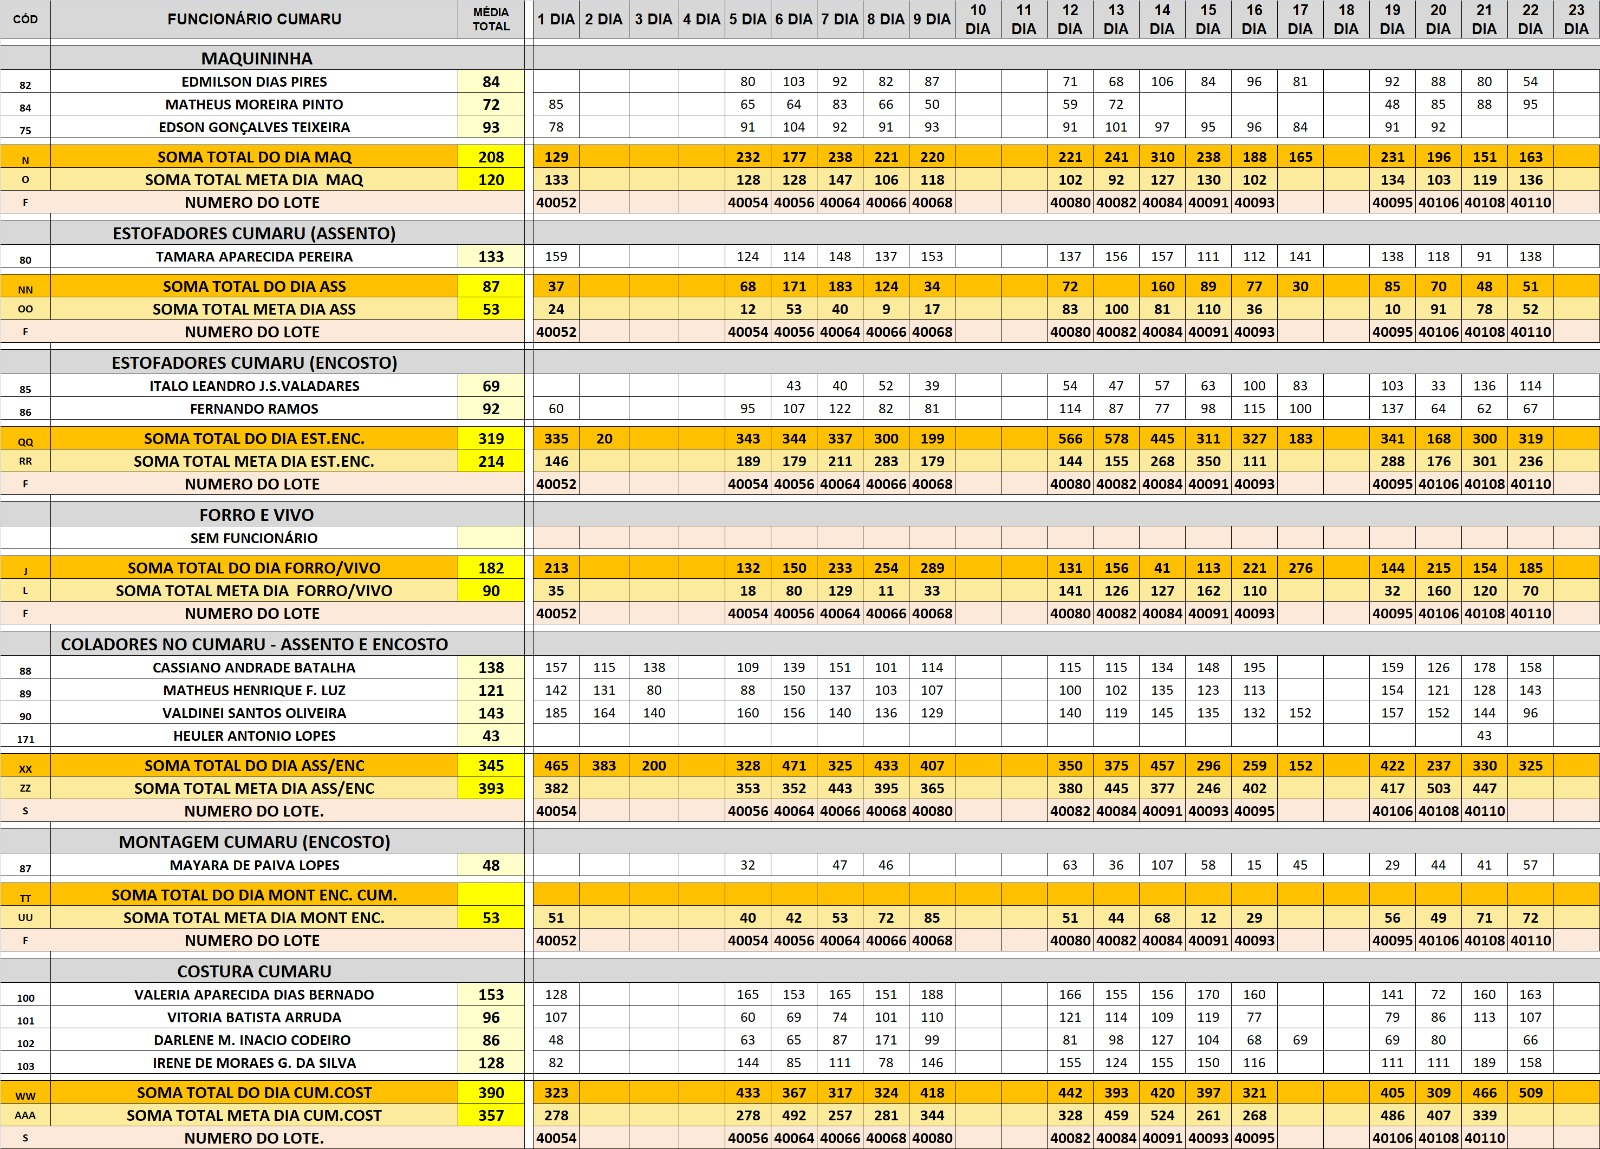
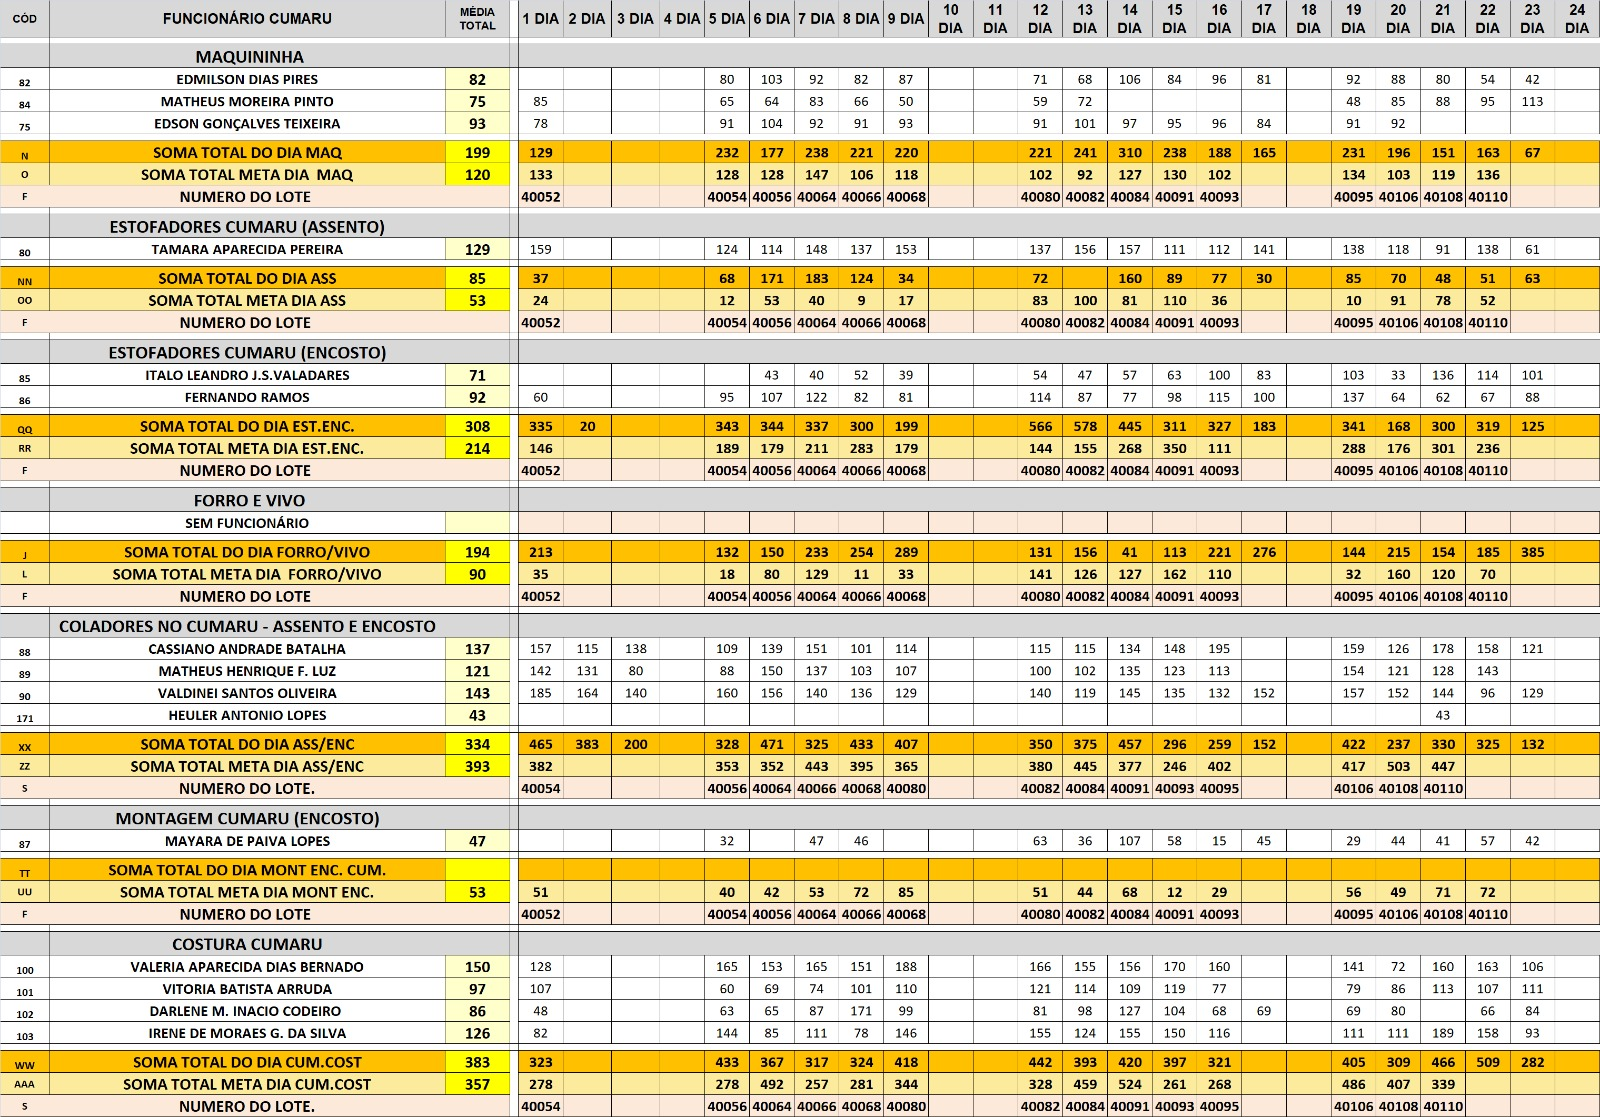
,

Changed region(s): [[0.0, 0.0, 1.0, 1.0], [0.0, 0.0609, 0.0625, 0.1826], [0.0, 0.0, 0.0312, 0.0304]]

diff --git a/back__incial.js b/back__incial.js
@@ -855,6 +855,9 @@ const unidades = {
             { data: "20/05/2025", captura: ["capturas/Unidade 2/Estofaria/2025/Estofaria/05-MAIO/20-pt1.jpeg", "capturas/Unidade 2/Estofaria/2025/Estofaria/05-MAIO/20-pt2.jpeg", "capturas/Unidade 2/Estofaria/2025/Estofaria/05-MAIO/20-pt3.jpeg"] },
             { data: "21/05/2025", captura: ["capturas/Unidade 2/Estofaria/2025/Estofaria/05-MAIO/21-pt1.jpeg", "capturas/Unidade 2/Estofaria/2025/Estofaria/05-MAIO/21-pt2.jpeg", "capturas/Unidade 2/Estofaria/2025/Estofaria/05-MAIO/21-pt3.jpeg", "capturas/Unidade 2/Estofaria/2025/Bordadeira/05-MAIO/21.jpg"] },
             { data: "22/05/2025", captura: ["capturas/Unidade 2/Estofaria/2025/Estofaria/05-MAIO/22-pt1.jpeg", "capturas/Unidade 2/Estofaria/2025/Estofaria/05-MAIO/22-pt2.jpeg", "capturas/Unidade 2/Estofaria/2025/Estofaria/05-MAIO/23-pt3.jpeg"] },
+            { data: "23/05/2025", captura: ["capturas/Unidade 2/Estofaria/2025/Estofaria/05-MAIO/23-pt1.jpeg", "capturas/Unidade 2/Estofaria/2025/Estofaria/05-MAIO/23-pt2.jpeg", "capturas/Unidade 2/Estofaria/2025/Estofaria/05-MAIO/23-pt3.jpeg", "capturas/Unidade 2/Estofaria/2025/Bordadeira/05-MAIO/23.jpg"] },
+
+
 
 
 
@@ -1017,7 +1020,7 @@ const unidades = {
             { data: "20/05/2025", captura: ["capturas/Unidade 2/Expedição/2025/05-MAIO/20.jpg"] },
             { data: "21/05/2025", captura: ["capturas/Unidade 2/Expedição/2025/05-MAIO/21.jpg"] },
             { data: "22/05/2025", captura: ["capturas/Unidade 2/Expedição/2025/05-MAIO/22.jpg"] },
-
+            { data: "23/05/2025", captura: ["capturas/Unidade 2/Expedição/2025/05-MAIO/23.jpg"] },
 
 
 
